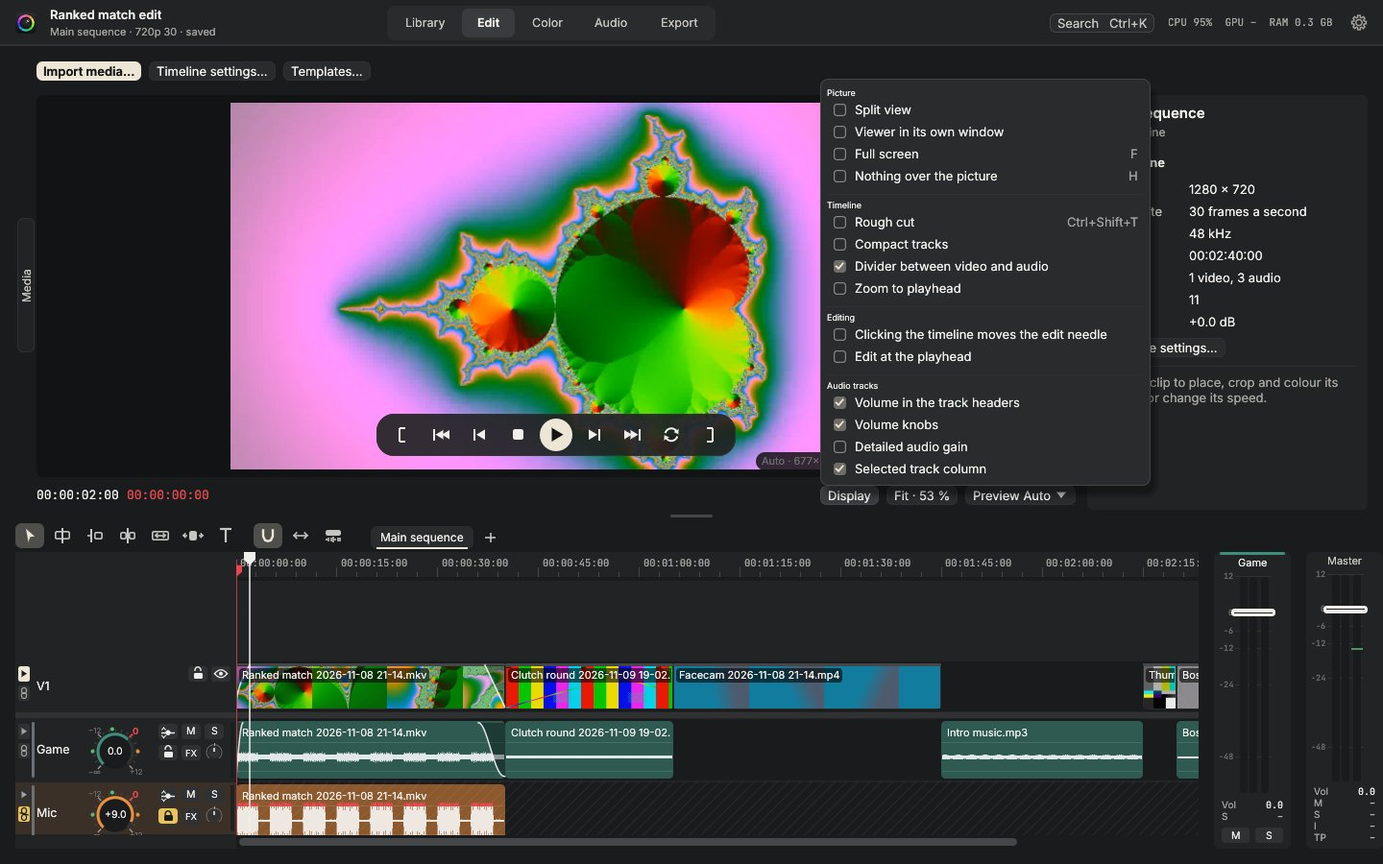
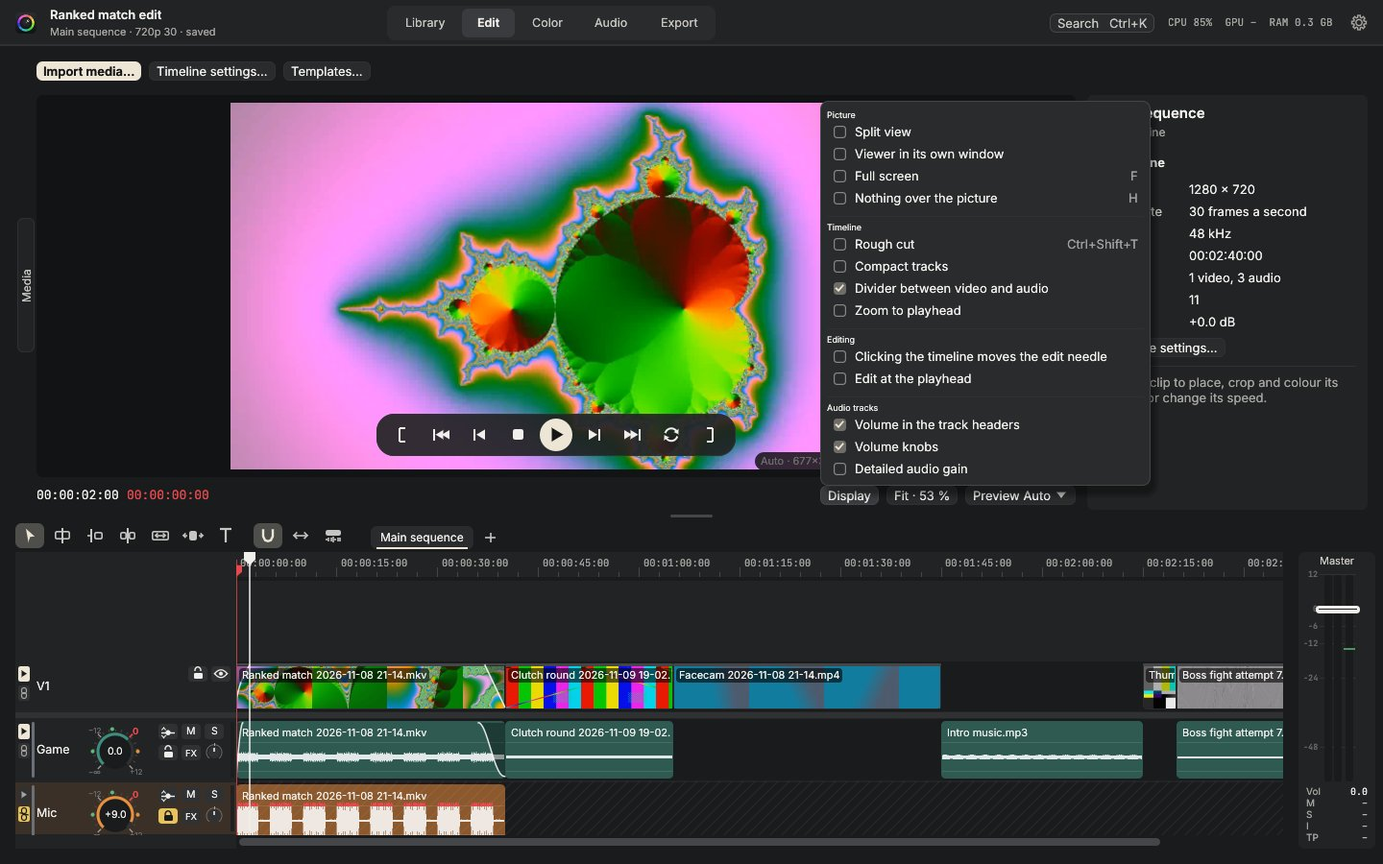
Only pinned columns beside the master (#192)
The column that followed the selected audio track beside the master
column is gone, with its Display menu line and setting. Any audio track
can be pinned there instead, as many as fit, so nothing takes room
unasked; with none pinned the Master column is alone. An older settings
file that still has the line's setting reads as before.

Claude-Session: https://claude.ai/code/session_01WDbQ6bKSxddwmQd6Ak3K41

diff --git a/docs/user-guide/index.html b/docs/user-guide/index.html
@@ -742,10 +742,9 @@ footer p { color: var(--muted); }
 <li><strong>Target tab:</strong> the small arrow at the left edge of every track's header. The lit one in the video tracks is where a file you place from the media drawer or the Library (insert, overwrite, add at the end) puts its picture; the lit one in the audio tracks is where its sound goes, its other sound streams on the tracks under it. Click another track's tab to make it the target. Until you pick one, it is the first track of each kind. Files you drag onto the timeline still go where you drop them.</li>
 <li><strong>Sync lock:</strong> the chain under the target tab. While it is on (as on every track at first), closing a gap, a ripple trim, a change of speed or an insert moves this track's clips too, so it stays in step with the rest. Click it to turn it off (the chain breaks and turns orange): those edits then leave the track where it is unless they happen on it, handy for a music bed that should not move. Cutting the region out of the timeline still cuts every track.</li>
 <li><strong>More in a track's right-click menu:</strong> <strong>Colour</strong> (its clips and header in one of the label colours), <strong>Select every clip on it</strong> or <strong>its clips after the playhead</strong>, <strong>Duplicate</strong> (a copy with its clips beside it), <strong>Move up</strong> and <strong>Move down</strong>, and <strong>Insert a track above</strong> or <strong>below</strong>. Each is one undo step.</li>
-<li><strong>Audio tracks</strong> have <strong>M</strong> (mute), <strong>S</strong> (solo), a volume fader (double-click for 0 dB) and a level button that draws a line across each clip at its volume: drag a clip's line up or down to change that clip's volume. The two are separate on purpose and add up: the fader turns the whole track up or down, the line one clip, and you hear both together (a clip at +3 dB on a track at −6 dB plays at −3 dB). The waveform is drawn as loud as the two together. With <a href="#display-menu">Volume knobs</a> on, a knob takes the slider's place: drag around it in a circle (near its middle, up and down), or hold <kbd>Ctrl</kbd> and turn the wheel over it (or click it once, then the wheel turns it until you click elsewhere), a decibel a notch; hold <kbd>Shift</kbd> for finer steps and double-click for 0 dB. It changes the same track volume as the slider and the column beside Master.</li>
+<li><strong>Audio tracks</strong> have <strong>M</strong> (mute), <strong>S</strong> (solo), a volume fader (double-click for 0 dB) and a level button that draws a line across each clip at its volume: drag a clip's line up or down to change that clip's volume. The two are separate on purpose and add up: the fader turns the whole track up or down, the line one clip, and you hear both together (a clip at +3 dB on a track at −6 dB plays at −3 dB). The waveform is drawn as loud as the two together. With <a href="#display-menu">Volume knobs</a> on, a knob takes the slider's place: drag around it in a circle (near its middle, up and down), or hold <kbd>Ctrl</kbd> and turn the wheel over it (or click it once, then the wheel turns it until you click elsewhere), a decibel a notch; hold <kbd>Shift</kbd> for finer steps and double-click for 0 dB. It changes the same track volume as the slider and a pinned column beside Master.</li>
 <li><strong>An audio track's second row</strong> of buttons, under M and S when the track is tall enough: the padlock, <strong>FX</strong> (lit while any of its effects is on; click it to see them on the Audio page) and a small <strong>pan knob</strong> (drag left or right, <kbd>Shift</kbd> for finer, double-click to centre). The thin strip at the header's right edge is its meter while playing. <kbd>Ctrl</kbd>-click <strong>S</strong> to hear that track alone (every other solo goes off). Its right-click menu also has <strong>Solo only this track</strong>, <strong>Reset volume and pan</strong>, and <strong>Copy its effects</strong> and <strong>Paste effects</strong>, to give another track the same EQ, compressor, clean-up and the rest (its role, pan and lines stay its own).</li>
-<li><strong>The selected track's column</strong>, left of the Master column, is a tall meter and fader for the audio track you are working on: the track of the selected sound clip (or the last one, or the first). Drag its fader for fine changes (<kbd>Shift</kbd>: finer), double-click for 0 dB; under it are its volume, its loudness over 3 seconds, and M and S. Turn it off in the <a href="#display-menu">Display menu</a> (Selected track column) if you'd rather not have it.</li>
-<li><strong>Pin tracks beside the master:</strong> right-click an audio track › <strong>Pin beside the master</strong> gives it a column of its own there, and you can pin as many as fit beside the timeline. The × at a column's top unpins it. Which tracks are pinned is kept with the project's layout, not as an edit.</li>
+<li><strong>Pin tracks beside the master:</strong> right-click an audio track › <strong>Pin beside the master</strong> gives it a tall meter and fader of its own left of the Master column, and you can pin as many as fit beside the timeline. Drag a column's fader for fine changes (<kbd>Shift</kbd>: finer), double-click for 0 dB; under it are its volume, its loudness over 3 seconds, and M and S. The × at a column's top unpins it. Which tracks are pinned is kept with the project's layout, not as an edit; with none pinned, the Master column is alone.</li>
 <li><strong>Waveforms</strong> show each moment's loudest peak (dimmer) and its usual level (brighter), as loud as the clip and its track are set. The faint line near the top and bottom of an audio clip is full scale: when a volume makes the sound louder than that, the part past it is drawn in red, up to a red edge at +6 dB over, so you can see clipping while you drag a level line or a fader.</li>
 </ul>
 </section>
@@ -969,7 +968,6 @@ footer p { color: var(--muted); }
 <ul>
 <li><strong>Volume in the track headers:</strong> off, audio tracks keep only their buttons (no slider, no knob) and can be shorter; set their volume in the columns beside Master (pin as many tracks there as you like), on the Audio page or with the level lines. While it is off, the two lines under it are greyed: they choose which control the headers have.</li>
 <li><strong>Volume knobs:</strong> each audio track gets a knob beside its buttons instead of the slider under them (the column of track names is a little wider). Its ring fills up to the volume, which is written in its middle; around it are −∞, −12, a red 0 and +12, green dots at −24 and −6 and an orange one at +6, and past 0 dB the ring turns orange. <strong>Detailed audio gain</strong> gives every audio track the large knob instead, with its full scale and the volume written in its middle (taller tracks). Both knobs give the useful cuts most of their turn: −24, −12 and −6 dB are well apart and the quietest part of the range is short.</li>
-<li><strong>Selected track column:</strong> the tall fader and meter for the selected audio track beside the Master column, on the Edit page. Off, only tracks you pin there have one.</li>
 </ul>
 <p>These are ways of working, kept in your settings for every project.</p>
 <figure><img loading="lazy" src="images/split-view.jpg" width="1440" height="900" alt="Split view: the Source picture of the selected clip on the left and the Program picture of the timeline on the right."><figcaption>Split view: Source on the left, Program on the right.</figcaption></figure>
@@ -1552,7 +1550,6 @@ footer p { color: var(--muted); }
 <tr><td>Divider between video and audio tracks, or one list that scrolls together</td><td><span class="none">none (give it one on the shortcuts page)</span></td></tr>
 <tr><td>Volume knobs on the audio tracks: a knob beside each track's buttons instead of the slider under them</td><td><span class="none">none (give it one on the shortcuts page)</span></td></tr>
 <tr><td>Volume in the track headers: off, audio tracks are only their buttons and can be shorter (the volume is beside the master)</td><td><span class="none">none (give it one on the shortcuts page)</span></td></tr>
-<tr><td>Selected track column: the selected audio track's tall fader and meter beside the master</td><td><span class="none">none (give it one on the shortcuts page)</span></td></tr>
 <tr><td>Detailed audio gain: the large knob with its full scale on every audio track (taller tracks)</td><td><span class="none">none (give it one on the shortcuts page)</span></td></tr>
 <tr><td>Zoom to playhead: zooming the timeline keeps the playhead in place (out of view, brings it to the middle) instead of zooming at the pointer</td><td><span class="none">none (give it one on the shortcuts page)</span></td></tr>
 <tr><td>Clicking the timeline moves the edit needle (the playhead by its handle), or the playhead</td><td><span class="none">none (give it one on the shortcuts page)</span></td></tr>

diff --git a/crates/app/src/editor/edit_ui.rs b/crates/app/src/editor/edit_ui.rs
@@ -837,37 +837,18 @@ impl Editor {
             };
             let status_height = if self.status.is_empty() { 0.0 } else { 24.0 };
             let height = (ui.available_height() - status_height).max(160.0);
-            // The selected audio track's column: the track of the selected
-            // sound clip, else the one it was last for, else the first.
-            let picked = seq
-                .audio_tracks
-                .iter()
-                .find(|t| t.clips.iter().any(|c| self.selected.contains(&c.id)))
-                .or_else(|| {
-                    seq.audio_tracks
-                        .iter()
-                        .find(|t| Some(t.id) == self.track_column_for)
-                })
-                .or_else(|| seq.audio_tracks.front());
-            self.track_column_for = picked.map(|t| t.id);
-            // The pinned tracks' columns first, in the order they were
-            // pinned, then the selected track's (unless it is pinned, or
-            // that column is switched off); as many as leave the timeline room.
+            // The pinned tracks' columns, in the order they were pinned,
+            // as many as leave the timeline room.
             let pinned = self
                 .timeline
                 .pinned
                 .iter()
-                .filter_map(|id| seq.audio_tracks.iter().find(|t| t.id.0 == *id))
-                .map(|t| (t, true));
-            let auto = picked
-                .filter(|t| !self.settings.hide_track_column && !self.timeline.pinned.contains(&t.id.0))
-                .map(|t| (t, false));
+                .filter_map(|id| seq.audio_tracks.iter().find(|t| t.id.0 == *id));
             let room = ((width - TIMELINE_LEAST - layout::MASTER_WIDTH) / (layout::MASTER_WIDTH + 8.0))
                 .max(0.0) as usize;
             let columns: Vec<ColumnShown> = pinned
-                .chain(auto)
                 .take(room)
-                .map(|(t, closable)| {
+                .map(|t| {
                     let index = seq.audio_tracks.iter().position(|o| o.id == t.id).unwrap_or(0);
                     ColumnShown {
                         id: t.id,
@@ -880,7 +861,6 @@ impl Editor {
                         muted: t.muted,
                         solo: t.solo,
                         levels: meters.get(&t.id).copied(),
-                        closable,
                     }
                 })
                 .collect();
@@ -916,12 +896,9 @@ impl Editor {
                         muted: c.muted,
                         solo: c.solo,
                         levels: c.levels,
-                        closable: c.closable,
+                        closable: true,
                     };
-                    let column = match c.closable {
-                        true => self.pinned_columns.entry(c.id.0).or_default(),
-                        false => &mut self.track_column,
-                    };
+                    let column = self.pinned_columns.entry(c.id.0).or_default();
                     let asked = column.show(ui, &self.theme, rect, strip);
                     let (muted, solo) = asked.mute_solo.unwrap_or((c.muted, c.solo));
                     if asked.gain_db.is_some() || asked.mute_solo.is_some() {
@@ -996,8 +973,6 @@ struct ColumnShown {
     muted: bool,
     solo: bool,
     levels: Option<([f32; 2], f32)>,
-    /// A pinned track's column, with its × to unpin it.
-    closable: bool,
 }
 
 #[cfg(test)]

diff --git a/crates/ui-kit/src/track_column.rs b/crates/ui-kit/src/track_column.rs
@@ -1,10 +1,9 @@
-//! The selected audio track's column beside the master column: the same
-//! tall meter that is also the fader, for the track the page is working
-//! on, so its volume can be set finely. Its name in its colour at the top;
-//! the two channels' peaks and the loudness over 3 s on the master's scale;
-//! the volume, and M and S, underneath. Built from the master column's
-//! parts, so both read the same (working rule 1). The same column serves
-//! tracks pinned beside the master, with an × to unpin them.
+//! A pinned audio track's column beside the master column: the same tall
+//! meter that is also the fader, so its volume can be set finely. Its name
+//! in its colour at the top, with an × to unpin it; the two channels'
+//! peaks and the loudness over 3 s on the master's scale; the volume, and
+//! M and S, underneath. Built from the master column's parts, so both read
+//! the same (working rule 1).
 
 use crate::Theme;
 use crate::master::{db_at, db_text, falling, volume_text, y_of};
@@ -195,7 +194,7 @@ impl TrackColumn {
             )
             .on_hover_cursor(CursorIcon::ResizeVertical)
             .on_hover_text(format!(
-                "{}: the selected audio track's volume. Drag (Shift: finer), double-click for 0 dB. The lanes are its two channels and its loudness over 3 s.",
+                "{}: this track's volume. Drag (Shift: finer), double-click for 0 dB. The lanes are its two channels and its loudness over 3 s.",
                 strip.name
             ));
         let shift = ui.input(|i| i.modifiers.shift);

diff --git a/crates/app/src/editor.rs b/crates/app/src/editor.rs
@@ -183,10 +183,6 @@ pub struct Editor {
     /// The timeline label chosen by a click: Delete removes it.
     selected_label: Option<LabelId>,
     master: ui_kit::master::MasterColumn,
-    /// The selected audio track's column beside the master column, and the
-    /// track it was last for (it stays on it when nothing is selected).
-    track_column: ui_kit::track_column::TrackColumn,
-    track_column_for: Option<project::TrackId>,
     /// The columns of the tracks pinned beside the master, by track.
     pinned_columns: std::collections::HashMap<u64, ui_kit::track_column::TrackColumn>,
     /// Effects copied from a track (its menu's "Copy its effects"), to paste on another.
@@ -454,8 +450,6 @@ impl Editor {
             label_editor: None,
             selected_label: None,
             master: ui_kit::master::MasterColumn::default(),
-            track_column: ui_kit::track_column::TrackColumn::default(),
-            track_column_for: None,
             pinned_columns: Default::default(),
             track_effects: None,
             versions: crate::versions_window::VersionsWindow::default(),
@@ -1104,7 +1098,6 @@ impl Editor {
             zoom_to_playhead: self.settings.zoom_to_playhead,
             track_knobs: self.settings.track_knobs,
             detailed_gain: self.settings.detailed_gain,
-            track_column: !self.settings.hide_track_column,
             header_volume: !self.settings.hide_header_volume,
             rough_cut: self.settings.rough_cut,
             edit_at_playhead: self.settings.edit_at_playhead,

diff --git a/crates/ui-kit/src/viewer.rs b/crates/ui-kit/src/viewer.rs
@@ -355,8 +355,6 @@ pub struct Display {
     pub track_knobs: bool,
     /// Audio tracks have the detailed volume knob.
     pub detailed_gain: bool,
-    /// The selected audio track has a column beside the master.
-    pub track_column: bool,
     /// Audio track headers have a volume control.
     pub header_volume: bool,
     /// The timeline is in the rough cut view.
@@ -459,7 +457,6 @@ pub fn display_groups(display: Display) -> Vec<DisplayGroup> {
                     enabled: display.header_volume,
                     ..line(Action::DetailedGain, "Detailed audio gain", display.detailed_gain)
                 },
-                line(Action::TrackColumn, "Selected track column", display.track_column),
             ],
         },
     ]
@@ -620,7 +617,6 @@ mod tests {
                 (Action::HeaderVolume, false),
                 (Action::TrackKnobs, false),
                 (Action::DetailedGain, true),
-                (Action::TrackColumn, false),
             ]
         );
         // Without a volume control in the headers, which one is moot.

diff --git a/crates/ui-kit/src/shortcuts/actions.rs b/crates/ui-kit/src/shortcuts/actions.rs
@@ -156,7 +156,6 @@ actions! {
     TrackDivider, Timeline, "Divider between video and audio tracks, or one list that scrolls together";
     TrackKnobs, Timeline, "Volume knobs on the audio tracks: a knob beside each track's buttons instead of the slider under them";
     HeaderVolume, Timeline, "Volume in the track headers: off, audio tracks are only their buttons and can be shorter (the volume is beside the master)";
-    TrackColumn, Timeline, "Selected track column: the selected audio track's tall fader and meter beside the master";
     DetailedGain, Timeline, "Detailed audio gain: the large knob with its full scale on every audio track (taller tracks)";
     ZoomToPlayhead, Timeline, "Zoom to playhead: zooming the timeline keeps the playhead in place (out of view, brings it to the middle) instead of zooming at the pointer";
     ClickMovesNeedle, Timeline, "Clicking the timeline moves the edit needle (the playhead by its handle), or the playhead";

diff --git a/crates/app/src/settings.rs b/crates/app/src/settings.rs
@@ -50,9 +50,6 @@ pub struct Settings {
     /// The track of the selected audio clip shows the detailed knob,
     /// growing to fit it while the clip is selected (Settings › Editing).
     pub detailed_gain_selected: bool,
-    /// No column for the selected audio track beside the master on the Edit
-    /// page (Display menu); pinned tracks still have theirs.
-    pub hide_track_column: bool,
     /// No volume control in the audio tracks' headers, for the shortest
     /// tracks (Display menu); before the knobs and the slider.
     pub hide_header_volume: bool,
@@ -399,6 +396,12 @@ impl Settings {
 #[cfg(test)]
 mod tests {
     use super::*;
+
+    #[test]
+    fn settings_from_before_the_track_column_went_still_read() {
+        let older: Settings = ron::from_str("(hide_track_column: true, rough_cut: true)").unwrap();
+        assert!(older.rough_cut, "the rest is kept");
+    }
 
     #[test]
     fn proxies_are_auto_until_set_and_kept() {

diff --git a/crates/app/src/editor/actions.rs b/crates/app/src/editor/actions.rs
@@ -230,15 +230,6 @@ impl Editor {
                 .into();
                 Ok(())
             }
-            Action::TrackColumn => {
-                self.settings.hide_track_column = !self.settings.hide_track_column;
-                self.status = match self.settings.hide_track_column {
-                    true => "No column for the selected track: pin tracks beside the master from their right-click menu",
-                    false => "The selected audio track's column is beside the master again",
-                }
-                .into();
-                Ok(())
-            }
             Action::DetailedGain => {
                 self.settings.detailed_gain = !self.settings.detailed_gain;
                 self.status = match self.settings.detailed_gain {

diff --git a/crates/ui-kit/README.md b/crates/ui-kit/README.md
@@ -15,7 +15,7 @@ Themes, fonts, shared sizes, the top bar and the launcher's title bar, the short
 | `src/master.rs` | `MasterColumn`: the column beside the timeline whose meter is also the mix's fader (-60 to +12 dB, double-click for 0). Three lanes on one scale: each channel's sample peak with a line at its true peak (red over `TRUE_PEAK_CEILING`, -1 dBTP), and the short-term loudness with a line at the loudness aimed for (`LoudnessTarget`: -14 LUFS online video, -16 spoken word, -23 and -24 broadcast, or none; chosen in the column's right-click menu or with `target_row`, the same choices as a row for Settings; kept by the page). Under it the volume, momentary (M), short-term (S) and integrated (I) loudness and the highest true peak (TP); I is green within 1 LU of the target (`against`), yellow louder; I and TP stay readable after playback stops and a click on them starts them again. `show` takes a `Mix` and returns a `MasterResponse` (new volume, reset, new target). While the mix plays without a sound output (`Mix::unheard`) its top says "No sound" in the warning colour, and pointing at it says `UNHEARD` ("No sound output: meters still work") and why |
 | `src/knob.rs` | The volume knob (`volume_knob`, `Knob`, `KnobLook`): compact (a ring filling to the value, the value inside, a small scale −∞, −12, a red 0, +12 with dots at −24 and −6 green and +6 orange; orange past 0 dB) or detailed (a raised knob with a red pointer on its edge, a ring on its face that turns with it, open at the pointer, the value upright in its middle, lines all round with every other longer, blue at the bottom of the range at 8 o'clock, orange at the top at half past 3, 0 dB at 2 o'clock labelled in red, labels −∞ to +12). Turned by dragging around it (half the angle moved is the change; near its middle, up and down), by the wheel with Ctrl held or once it has been clicked (`takes_wheel`; a decibel a notch), Shift finer, double-click 0 dB; the value is shown while turned (`shown_db`) and is one change when let go or once the wheel has rested half a second (`done`). Around each `Sweep` by a fader's law below 0 dB (the level line's: 10^(dB/40) of the way up to 0 dB, so −24, −12 and −6 dB are well apart) and straight decibels above it, on the one volume scale's range. Built once for track volume now and effect settings later |
 | `src/pan_knob.rs` | `pan_knob`: the small pan knob in an audio track's header (centre straight up, the arc grows to the side it leans; dragged right or up and left or down, Shift finer, resting on the centre near it, double-click centres it; shown while dragged, one change when let go); `words` ("30 % left") |
-| `src/track_column.rs` | `TrackColumn`: the selected audio track's column, or a pinned track's (with an × to unpin it, `closable`), beside the master column, made of the master column's parts: its name in its colour, its two channels' peaks and loudness over 3 s on the master's scale, the meter as its fader (Shift finer, double-click 0 dB; `dragging` while moved, `gain_db` when let go), its volume and M and S |
+| `src/track_column.rs` | `TrackColumn`: a pinned audio track's column (with an × to unpin it, `closable`) beside the master column, made of the master column's parts: its name in its colour, its two channels' peaks and loudness over 3 s on the master's scale, the meter as its fader (Shift finer, double-click 0 dB; `dragging` while moved, `gain_db` when let go), its volume and M and S |
 | `src/mixer.rs` | `Mixer`: the Audio page's mixer row, a strip per track side by side scrolling sideways (the wheel either way, a scroll bar), only the strips in view drawn and taking input (`in_view`), so dozens cost what a few do. A `Strip` is the track's role colour along its top (right-click to choose another), its short name and name (once, when the name is the short name), its effects as tags (`Tag`: a click opens that effect, pointing says what it does now), a meter on the master column's scale that is also its fader (two peak lanes falling slowly, the handle across them; drag, double-click for 0 dB; `gain_being_set` while dragged, so it is heard), the exact volume in a box (click and type: `read_db` takes "-6", "−6.5 dB"; a track at the bottom of the range is still heard, so it reads "−60.0 dB", not "Off"), mute and solo. Hands back `StripEvent`s |
 | `src/volume.rs` | The one volume scale every fader and volume text uses (working rule 1): the range (`BOTTOM_DB` -60 to `TOP_DB` +12), the fader law (`share_of`, `db_at_share`: straight decibels, as the meters read; the timeline's track-header fader, the mixer's strips and the master column), where a drag lands (`settled`: half decibels, 0 dB within one; `settled_fine` for the level and volume lines: tenths, 0 dB within half of one), and the text (`words`, `number`, `read`), which says what is heard (`Bottom`): a clip's volume at the bottom is silence and reads "Off", a track's or the mix's is heard and reads "−60.0 dB". A test checks every place gives the same position and text for the same volume |
 | `src/keyboard.rs` | `ShortcutsPage`: the keyboard shortcuts page: a keyboard drawn for the chosen layout, every key that does something tinted with a dot in its context's colour and the rest dimmed, the keyboard chosen in a dropdown (Automatic, from the system, the usual, or one picked by hand, with the system's own shown beside it when it differs), Ctrl / Shift / Alt toggles for combinations, point or click a key to see its commands, context chips that filter the keyboard, the list and the mouse section, a search box that also lights the keys it finds, a list of every command where a shortcut is changed (click its keys and press new ones; a clash says who has them and offers a swap), Reset per command and for all, and what the mouse does. All from the shortcut table, and changes go back into it. `PageResponse` tells the window when to save and when the cheat sheet was asked for |

diff --git a/docs/build-plan.md b/docs/build-plan.md
@@ -325,8 +325,9 @@ Phase 4 is the heart of the app and the longest phase, so it runs as three parts
 - [x] **Unlinking clips:** a clip's right-click menu unlinks it, so its picture and each of its sound streams (not only picture from sound, the streams from each other too) are clicked, moved and trimmed on their own; selected clips can be linked again; a setting, "Always unlink audio and video", keeps every clip of every project on its own. (Done: `Unlink`, `Link` and `UnlinkAll`, each one undo step; with the setting on, a change that leaves links (an import, a paste) is journalled together with `UnlinkAll` as one step (`Steps`), and turning it on, or opening a project with it on, unlinks what is linked as one step, said in the status line.)
 - [x] **Clearer waveforms:** each moment's loudest peak (dimmer) and usual level (brighter), following the clip's and track's volume; full scale marked inside the clip and anything louder drawn on past it in red, so clipping shows while a volume is dragged. (Done: `ui_kit` `timeline::wave_look`.)
 - [x] **Fades on the timeline:** a handle in each top corner of a clip drags a fade in or out, for pictures (to see-through) and sound alike, and a point halfway along a fade bends its curve. (Done: format 32 adds `Clip::fades` for pictures and a curve to every fade, `SetFades`; the mixer, the compositor and the timeline share one curve formula, so preview and export agree; one undo step per drag, lengths on whole frames.)
-- [x] **Volume knobs:** an audio track's volume as a knob (Display › Volume knobs) or a detailed knob with its full scale (Display › Detailed audio gain, or only on the selected clip's track: Settings › Editing), and the selected audio track's tall fader beside the master column. (Done: `ui_kit::knob`, built once to serve effect settings later; `ui_kit::track_column`; the knob turns by dragging around it or with the wheel (Ctrl held, or once clicked), Shift finer, one change when let go.)
+- [x] **Volume knobs:** an audio track's volume as a knob (Display › Volume knobs) or a detailed knob with its full scale (Display › Detailed audio gain, or only on the selected clip's track: Settings › Editing), and a tall fader beside the master column (since only for pinned tracks). (Done: `ui_kit::knob`, built once to serve effect settings later; `ui_kit::track_column`; the knob turns by dragging around it or with the wheel (Ctrl held, or once clicked), Shift finer, one change when let go.)
 - [x] **Track options:** a padlock on every track (nothing on a locked track moves or changes), a pan knob, an FX button and a small meter in an audio track's header; in the track's menu a colour, select its clips (all, or after the playhead), duplicate, move up or down, insert a track above or below, solo it alone (also Ctrl+click on S), reset its volume and pan, copy and paste its effects, remove the empty tracks; any audio track pinned beside the master column, as many as fit, each with an × to unpin it, and the selected track's column switched off from the Display menu. (Done: format 33 adds `Track::colour` and the lock's checks (`keep_locks`); `AddTrackAt`, `DuplicateTrack`, `MoveTrack`, `SetTrackLocked`, `SetTrackColour`, the rest ordinary commands or `Steps`, each one undo step; `ui_kit::pan_knob`; pins are view state. Later: sync locks and target buttons, and record arm with the voice-over recorder.)
+- [x] **Only pinned columns beside the master:** the column that followed the selected audio track is gone; any track can be pinned there instead, so none is there unasked. (Done: the Display line and its setting gone; an older settings file with it still reads.)
 - [x] **Display menu in groups:** a checkbox per line, in four titled groups (Picture, Timeline, Editing, Audio tracks), the keys on the right, staying open to tick several; lines another makes moot are greyed. (Done: `ui_kit::viewer::display_groups`.)
 - [x] **Sync locks and targets:** a chain in every track's header turns its sync lock off, so closing gaps, ripple trims, speed changes and inserts on other tracks leave it where it is (a music bed that should not move); a target tab chooses the video track and the audio track a file placed from the media drawer or the Library lands on. (Done: format 34 `Track::unsynced`, `SetTrackSync`, `tracks::follows`; `Targets` on `PlaceMedia` and `InsertMedia`, `sound` on `LayMedia`; targets are view state. Later: targets for a marked part and for several files at once, which go on the first tracks for now.)
 - [x] **Knob polish:** the detailed knob's ring turns with it and the value is written upright in its middle; both knobs turn by a fader's law below 0 dB, so −24, −12 and −6 dB are well apart; a drag turns them half as far, the wheel a decibel a notch; the buttons stay at the header's right edge whatever the knob; the detailed knob sits in the middle of a tall track; Display › Volume in the track headers off leaves audio tracks only their buttons, for the shortest tracks.

diff --git a/CLAUDE.md b/CLAUDE.md
@@ -78,7 +78,7 @@ Building needs libclang (for the FFmpeg bindings); on Windows set `LIBCLANG_PATH
 - Time is stored as exact fractions (frames over rate), never floats.
 - The project file is versioned from its first commit; every format change gets a migration and a stored sample. Since format 18 (templates 2) values that are their default are left out of the file (`project::defaults`), so a default of a saved type is part of the format and changes only with a new version whose migration writes the old value in.
 - How a project is looked at (track heights, the video/audio divider) is view state, not an edit: it lives in `<project file>.view` beside the project, never in the project file, and makes no undo step.
-- Ways of looking at the timeline that are ways of working rather than about one project (the rough cut view, compact tracks, the divider between video and audio taken away, what a click on the timeline moves, zooming to the playhead, volume knobs or sliders and the detailed knob or no volume in the headers, the selected track's column beside the master, nothing drawn over the picture) are settings, the same for every project; they never change the heights or the divider's place kept in the `.view` file (the selected clip's track opening up for the detailed knob is drawn taller only while it lasts).
+- Ways of looking at the timeline that are ways of working rather than about one project (the rough cut view, compact tracks, the divider between video and audio taken away, what a click on the timeline moves, zooming to the playhead, volume knobs or sliders and the detailed knob or no volume in the headers, nothing drawn over the picture) are settings, the same for every project; they never change the heights or the divider's place kept in the `.view` file (the selected clip's track opening up for the detailed knob is drawn taller only while it lasts).
 - A clip's keyframes are kept in its file's time (source time), not the timeline's, so they stay on the picture through moves, trims and speed changes; values between keyframes are worked out in whole numbers so preview and export agree exactly.
 - A clip's speed ramp (speed keyframes) is kept in timeline time from the clip's start, unlike look keyframes, because a ramp is about the timeline; where the clip is in its file is the ramp added up in whole numbers, exactly to the flick (1/705 600 000 s), so preview and export agree and steady stretches land exactly on recorded frames. Setting a ramp keeps the part of the file a clip plays; its length follows, to the nearest frame.
 - A project has several timelines; which one is open is view state (kept in `<project file>.view`, no undo step), while making, copying, renaming and removing one are edits. A clip plays a part of a file, another timeline (a nested timeline) or nothing (an adjustment layer): `project::ClipKind`. A timeline never plays itself, directly or through others. An adjustment layer's colour applies to the picture below it as a whole, in linear light: what is below is put together first and drawn again coloured.
